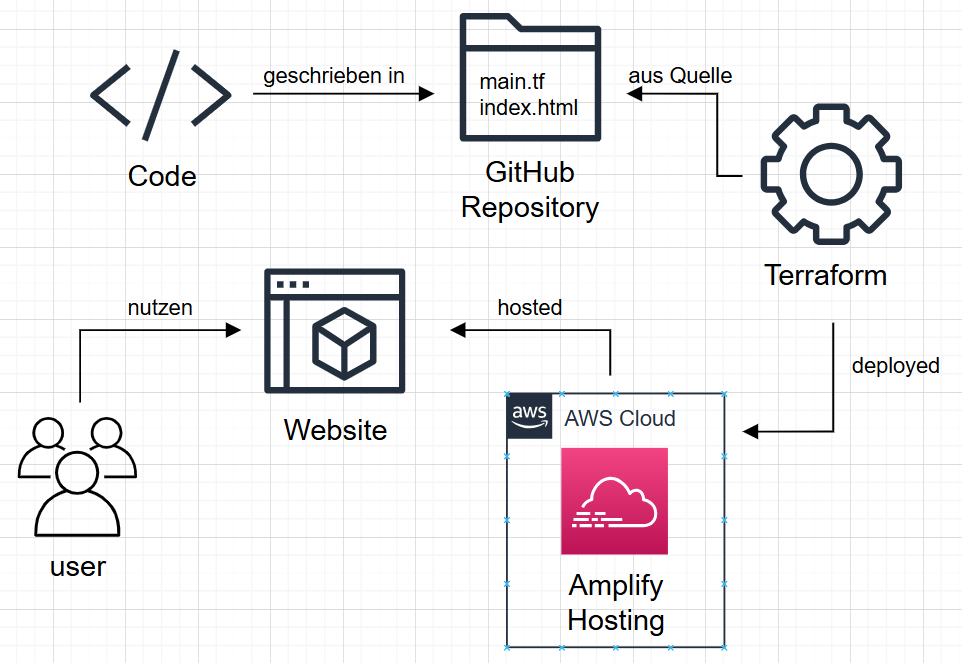
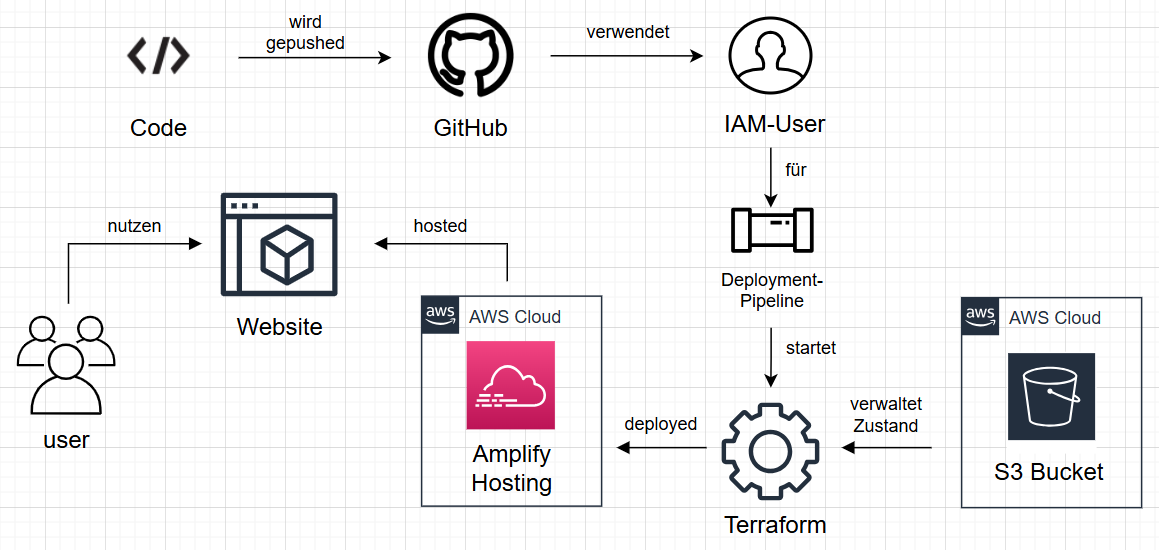
feedback-fixes

diff --git a/README.md b/README.md
@@ -6,8 +6,10 @@
 /.github/worflows/deploy.yml - Ausführungspipeline beim push auf main  
 /images/amplify_hosting_diagramm.png - Diagramm zum Projekt  
 /images/iu_logo.png - Logo der IU  
+/terraform/main.tf - Erstellt Amplify App  
+/terraform/provider.tf - Konfiguriert Cloud Anbieter  
+/terraform/variables.tf - Setzt Variablen für Terraform  
 index.html - Code für die zu hostende statische Website  
-main.tf - Terraform Code  
 README  
 
 **Funktion des Projektes:**  
